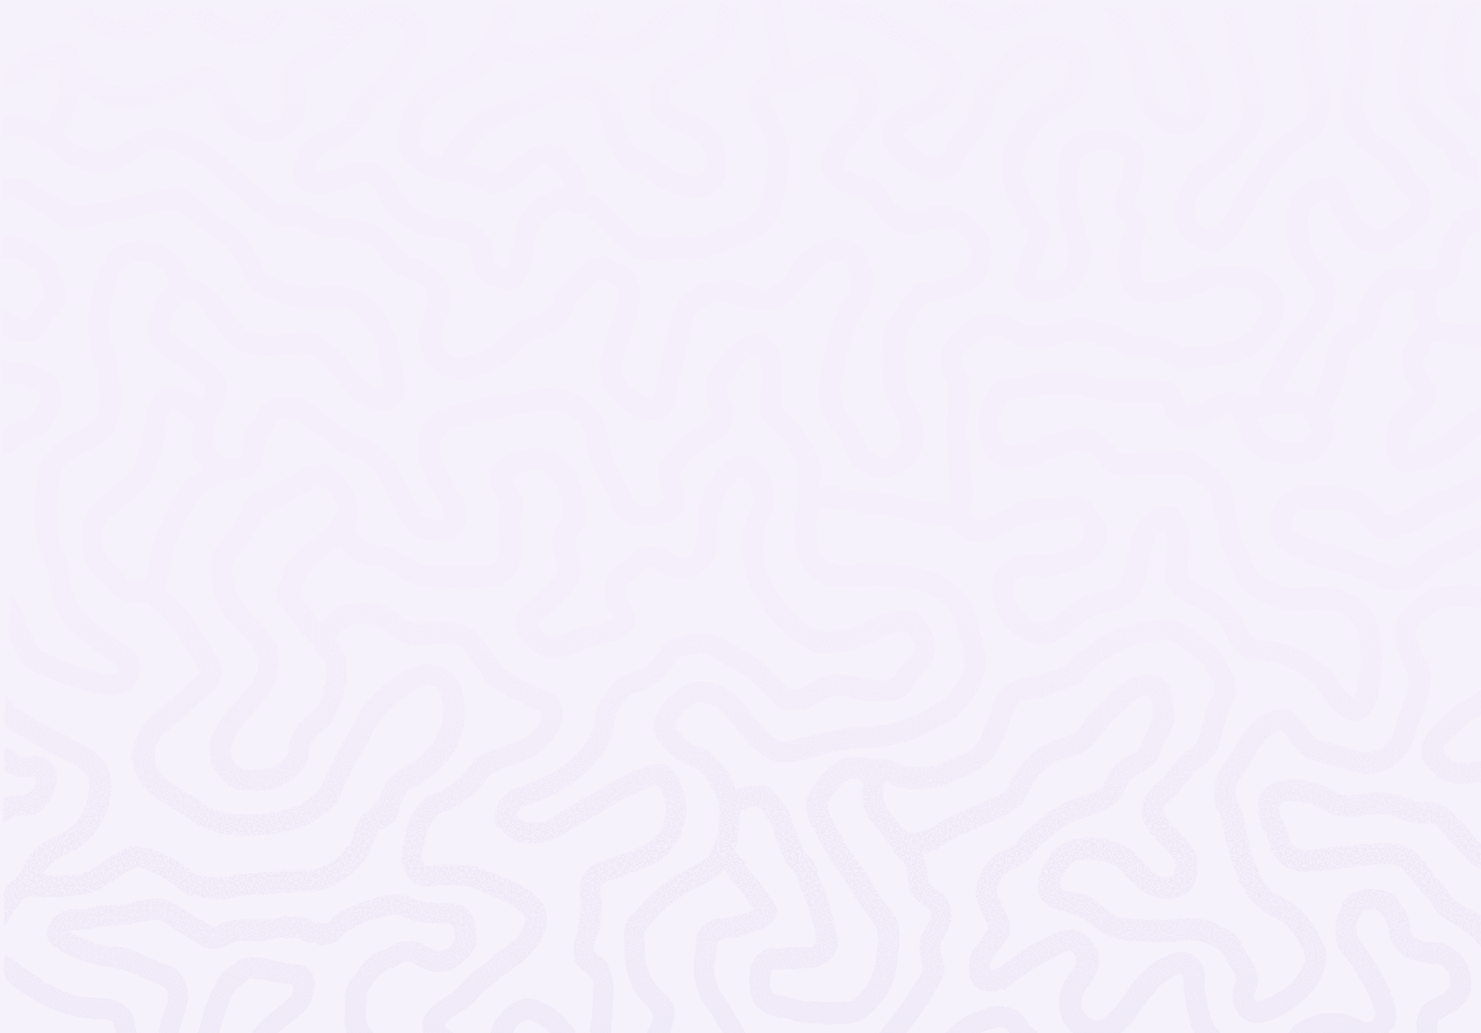
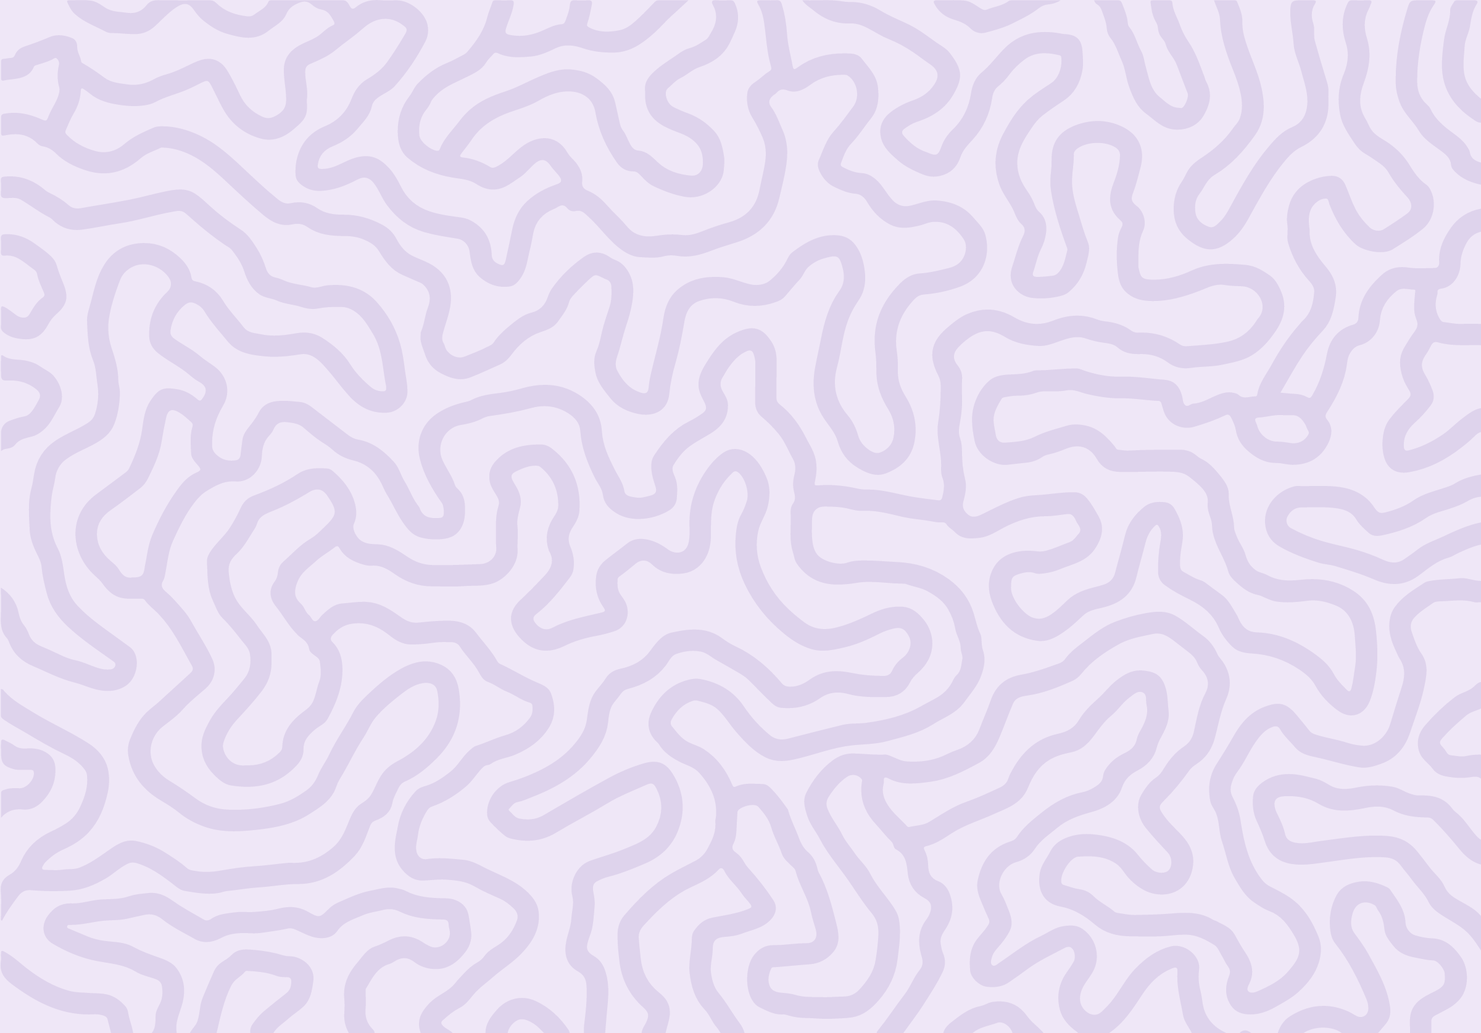
fix(mobile): reconcile canvasLight with the regenerated light-mode maze texture
Owner on-device: the first shipped light-mode maze texture
(background-light.png) read as too bright, with the maze pattern nearly
invisible against the canvas. Regenerated via apps/website's own
@resvg/resvg-js (handles background.svg's filter defs natively — no
ImageMagick workaround needed, see the recipe note in proposal.md): base fill
#efe7f7, maze recolored to #b39fd1 at fill-opacity .28, rendered at fitTo
width 2400 with background=#efe7f7 baked into the PNG so contentFit="cover"
edges can't show a seam.

canvasLight (packages/tokens/src/colors.ts) deepened to match the asset's own
base fill (#F6F2FB → #EFE7F7) — ScreenBackground paints canvasLight as the
solid color behind this texture, so the two need to agree; before this,
the flat canvas (visible for an instant before the texture decodes, and at
any cover-fit edge/gap) was visibly lighter than the texture laid over it.
_layout.tsx's light contentStyle and pick-player.tsx's bg-canvasLight both
read the same token, so both picked up the reconciled value automatically.

Flagged (not fixed) in proposal.md: recomputed contrast against the deepened
canvas shows mutedOnLight now sits at ~4.22:1 against canvasLight (was
4.60:1), just under the 4.5:1 AA threshold for normal text — the one on-screen
instance is the "N cards · N languages" caption on the Library landing.
Left as a flag rather than a fix here since mutedOnLight is used far more
broadly than this one caption and deserves the same "same contrast step as
[…]

diff --git a/packages/tokens/src/colors.ts b/packages/tokens/src/colors.ts
@@ -37,7 +37,10 @@ export const colors = {
   // Pick a Card's deck/faces) never read these — they stay dark in both themes. These
   // cover the Library canvas, the Play/Pick a Card chrome around the Card (issue
   // #173), and the Language/Game/Share/Theme sheet surfaces.
-  canvasLight: '#f6f2fb',
+  // Deepened again (issue #189 on-device: too bright, maze texture read as
+  // invisible against it) to match the regenerated maze texture's own base
+  // fill — see docs/design/163-light-mode/proposal.md's texture recipe note.
+  canvasLight: '#efe7f7',
   // Deepened variants for text/accents that only ever sat on a dark canvas or a
   // small icon before now — the flat tokens don't reliably clear WCAG AA once
   // they're legible-text-sized on the new light surfaces (see the proposal's

diff --git a/docs/design/163-light-mode/proposal.md b/docs/design/163-light-mode/proposal.md
@@ -63,12 +63,12 @@ Rather than picking new hex values by eye, each new light token was derived to r
 off _its_ canvas (`background`, `#0d051f`). That keeps the light theme's sense of depth
 perceptually equivalent to the dark theme's, instead of just guessing at "light-mode-y" colors.
 
-| Elevation role                                                  | Dark token                | Dark hex      | Contrast vs. dark canvas | Light hex                                                     | Contrast vs. light canvas | Shipped?                              |
-| --------------------------------------------------------------- | ------------------------- | ------------- | -----------------------: | ------------------------------------------------------------- | ------------------------: | :------------------------------------ |
-| Canvas (Library screen background)                              | `darkest`                 | `#08001a`     |                        — | `canvasLight` `#F6F2FB`                                       |                         — | **yes**                               |
-| Sheet surface (Language/Game/Share/Theme modals)                | n/a (was hardcoded white) | —             |                        — | dark: reuse `dark` `#262432` · light: reuse `white` `#FFFFFF` |             1.29:1 (dark) | **yes** — amended, see below          |
-| ~~Mid surface (revealed question card, PlayerBar, close chip)~~ | ~~`darker`~~              | ~~`#111516`~~ |               ~~1.08:1~~ | ~~`#EFEAF7`~~                                                 |                ~~1.07:1~~ | **no — card stays dark, amendment 2** |
-| ~~Raised surface (deck-peek layers, card back)~~                | ~~`dark`~~                | ~~`#262432`~~ |               ~~1.30:1~~ | ~~`#DED4EC`~~                                                 |                ~~1.29:1~~ | **no — card stays dark, amendment 2** |
+| Elevation role                                                  | Dark token                | Dark hex      | Contrast vs. dark canvas | Light hex                                                                                         | Contrast vs. light canvas | Shipped?                              |
+| --------------------------------------------------------------- | ------------------------- | ------------- | -----------------------: | ------------------------------------------------------------------------------------------------- | ------------------------: | :------------------------------------ |
+| Canvas (Library screen background)                              | `darkest`                 | `#08001a`     |                        — | `canvasLight` `#EFE7F7` (deepened from `#F6F2FB`, issue #189 — see the texture recipe note below) |                         — | **yes**                               |
+| Sheet surface (Language/Game/Share/Theme modals)                | n/a (was hardcoded white) | —             |                        — | dark: reuse `dark` `#262432` · light: reuse `white` `#FFFFFF`                                     |             1.29:1 (dark) | **yes** — amended, see below          |
+| ~~Mid surface (revealed question card, PlayerBar, close chip)~~ | ~~`darker`~~              | ~~`#111516`~~ |               ~~1.08:1~~ | ~~`#EFEAF7`~~                                                                                     |                ~~1.07:1~~ | **no — card stays dark, amendment 2** |
+| ~~Raised surface (deck-peek layers, card back)~~                | ~~`dark`~~                | ~~`#262432`~~ |               ~~1.30:1~~ | ~~`#DED4EC`~~                                                                                     |                ~~1.29:1~~ | **no — card stays dark, amendment 2** |
 
 `ScreenBackground`'s dark canvas is actually `colors.darkest` (`#08001a`), not `background` — the
 original doc's role table (matching `docs/DESIGN.md`'s naming) rounded that to `background`;
@@ -103,21 +103,21 @@ needed to work on white). Checked directly rather than assumed — see the amend
 
 ### Full token mapping
 
-| Role                                                 | Dark token                     |    Dark value | Light proposal                                          |           Light value | Note                                                                                        |
-| ---------------------------------------------------- | ------------------------------ | ------------: | ------------------------------------------------------- | --------------------: | ------------------------------------------------------------------------------------------- |
-| Library canvas                                       | `darkest`                      |     `#08001a` | `canvasLight` (new)                                     |             `#F6F2FB` | Library/landing screen only — Play and Pick a Card force dark, see amendment 2              |
-| Sheet surface                                        | n/a (was always white)         |             — | reuse `dark` (dark theme) / reuse `white` (light theme) | `#262432` / `#FFFFFF` | amended — see above                                                                         |
-| Primary text (sheets, Library)                       | `white`                        |     `#f5f5f5` | reuse `darker`                                          |             `#111516` | already proven as sheet body text                                                           |
-| Muted / secondary text                               | `gray-dark`                    |     `#9698af` | `mutedOnLight` (new)                                    |             `#6B6D82` | the un-deepened value only just fails AA on light — see [contrast finding](#contrast-check) |
-| Hairline rule / border                               | `gray-lighter`                 |     `#dcdee9` | reuse as-is                                             |             `#dcdee9` | already the sheets' border color                                                            |
-| Primary accent (buttons)                             | `yellow-400` / `primary.light` |     `#f9d75f` | unchanged                                               |             `#f9d75f` | button always carries its own dark text; theme-independent                                  |
-| Secondary accent (checkmark, selection) — dark theme | `primary-dark`                 |     `#c058d2` | `accentOnDark` (new)                                    |             `#D485E2` | new combination — violet text never sat on a dark sheet before                              |
-| Secondary accent — light theme                       | `primary-dark`                 |     `#c058d2` | `accentOnLight` (new)                                   |             `#9A3AAC` | any place violet is set as legible copy                                                     |
-| Error, text scale — dark theme                       | `red`                          |     `#ee1e23` | `errorOnDark` (new)                                     |             `#FF5B5F` | new combination — error copy never sat on a dark sheet before                               |
-| Error, text scale — light theme                      | `red`                          |     `#ee1e23` | `errorOnLight` (new)                                    |             `#C9151A` | error copy needs AA; the flat token doesn't clear it on white                               |
-| Selection tint                                       | `bg-yellow-300/40`             |             — | unchanged                                               |                     — | works on both the white and the dark `#262432` sheet fill                                   |
-| Brand gradient (wordmark, display text)              | `gradients.primary`            | yellow→violet | unchanged                                               |                     — | works on either canvas — see [wordmark](#wordmark--the-maze-texture) below                  |
-| ~~Card mid/raised surfaces~~                         | ~~`darker`/`dark`~~            |             — | ~~`#EFEAF7`/`#DED4EC`~~                                 |                     — | **not shipped** — card stays dark in both themes (amendment 2)                              |
+| Role                                                 | Dark token                     |    Dark value | Light proposal                                          |           Light value | Note                                                                                                                                                   |
+| ---------------------------------------------------- | ------------------------------ | ------------: | ------------------------------------------------------- | --------------------: | ------------------------------------------------------------------------------------------------------------------------------------------------------ |
+| Library canvas                                       | `darkest`                      |     `#08001a` | `canvasLight` (new)                                     |             `#EFE7F7` | Library/landing screen only — Play and Pick a Card force dark, see amendment 2; deepened from `#F6F2FB` per issue #189 (see texture recipe note below) |
+| Sheet surface                                        | n/a (was always white)         |             — | reuse `dark` (dark theme) / reuse `white` (light theme) | `#262432` / `#FFFFFF` | amended — see above                                                                                                                                    |
+| Primary text (sheets, Library)                       | `white`                        |     `#f5f5f5` | reuse `darker`                                          |             `#111516` | already proven as sheet body text                                                                                                                      |
+| Muted / secondary text                               | `gray-dark`                    |     `#9698af` | `mutedOnLight` (new)                                    |             `#6B6D82` | the un-deepened value only just fails AA on light — see [contrast finding](#contrast-check)                                                            |
+| Hairline rule / border                               | `gray-lighter`                 |     `#dcdee9` | reuse as-is                                             |             `#dcdee9` | already the sheets' border color                                                                                                                       |
+| Primary accent (buttons)                             | `yellow-400` / `primary.light` |     `#f9d75f` | unchanged                                               |             `#f9d75f` | button always carries its own dark text; theme-independent                                                                                             |
+| Secondary accent (checkmark, selection) — dark theme | `primary-dark`                 |     `#c058d2` | `accentOnDark` (new)                                    |             `#D485E2` | new combination — violet text never sat on a dark sheet before                                                                                         |
+| Secondary accent — light theme                       | `primary-dark`                 |     `#c058d2` | `accentOnLight` (new)                                   |             `#9A3AAC` | any place violet is set as legible copy                                                                                                                |
+| Error, text scale — dark theme                       | `red`                          |     `#ee1e23` | `errorOnDark` (new)                                     |             `#FF5B5F` | new combination — error copy never sat on a dark sheet before                                                                                          |
+| Error, text scale — light theme                      | `red`                          |     `#ee1e23` | `errorOnLight` (new)                                    |             `#C9151A` | error copy needs AA; the flat token doesn't clear it on white                                                                                          |
+| Selection tint                                       | `bg-yellow-300/40`             |             — | unchanged                                               |                     — | works on both the white and the dark `#262432` sheet fill                                                                                              |
+| Brand gradient (wordmark, display text)              | `gradients.primary`            | yellow→violet | unchanged                                               |                     — | works on either canvas — see [wordmark](#wordmark--the-maze-texture) below                                                                             |
+| ~~Card mid/raised surfaces~~                         | ~~`darker`/`dark`~~            |             — | ~~`#EFEAF7`/`#DED4EC`~~                                 |                     — | **not shipped** — card stays dark in both themes (amendment 2)                                                                                         |
 
 A neat discovery while deriving the deepened-yellow case: `colors.yellow[100]` (`#7e7552`)
 already existed in `packages/tokens/src/colors.ts`, unused anywhere in the app. It wasn't needed
@@ -145,19 +145,40 @@ unchanged. Every themed surface picks between an existing token and a new one vi
 - ~~**Card-back wordmark** change~~: not shipped. `pick-player.tsx`'s coded "WHO?CARDS" (`WHO`
   yellow-400, `?` primary-dark, `CARDS` white) is untouched — the card back stays dark in both
   themes (amendment 2), so `text-white` for `CARDS` is still correct.
-- **Maze texture** (new asset: `apps/mobile/assets/images/background-light.png`, used by
+- **Maze texture** (asset: `apps/mobile/assets/images/background-light.png`, used by
   `ScreenBackground` on the Library screen only): recolored from the same source path data as
-  the dark texture (`apps/website/public/background.svg`), gradient stops shifted from
-  `#08001A → #fff` to `#EDE6F6 → #C9B8E0` at `fill-opacity .16`. **Implementation note from
-  building the actual asset:** rasterizing this SVG with ImageMagick's SVG delegate produced
-  wrong output twice — first an accidental grayscale PNG (lost the tint entirely, fixed with
+  the dark texture (`apps/website/public/background.svg`).
+  **Regen recipe (current, issue #189 — replaces the ImageMagick approach below):** the owner's
+  first shipped light asset (gradient stops `#EDE6F6 → #C9B8E0` at `fill-opacity .16`, built via
+  the ImageMagick/Playwright pipeline described below) read as too bright on-device, with the
+  maze pattern nearly invisible against the canvas. Regenerated instead with
+  `apps/website`'s own `@resvg/resvg-js` (already a website dependency — see
+  `apps/website/src/server/print/render.ts` for its other usage), which handles
+  `background.svg`'s filter defs natively (no ImageMagick workaround needed): base fill
+  `#efe7f7`, maze stroke/fill recolored to `#b39fd1` at `fill-opacity .28`, rendered via
+  `resvg-js`'s `fitTo: {mode: 'width', value: 2400}` with `background: '#efe7f7'` baked directly
+  into the PNG (so `contentFit="cover"`'s edges/gaps can't show a seam against the canvas
+  underneath). **`canvasLight` (`packages/tokens/src/colors.ts`) was deepened to match this
+  asset's own base fill** (`#F6F2FB` → `#EFE7F7`) — `ScreenBackground` paints `canvasLight` as
+  the solid color _behind_ this texture (see its own doc comment), so the two need to agree:
+  before this change the flat canvas (visible for an instant before the texture image decodes,
+  and at any `contentFit="cover"` edge/gap) was visibly lighter than the texture laid over it.
+  `_layout.tsx`'s light `contentStyle` and `pick-player.tsx`'s `bg-canvasLight` both read the
+  same token, so both picked up the reconciled value automatically — no separate edit needed
+  there. Contrast re-checked against the deepened canvas: every `mutedOnLight`/`accentOnLight`/
+  `errorOnLight` pairing in the [contrast table](#contrast-check) only _gains_ margin against a
+  darker background, so nothing in that table needed re-deriving.
+  **Implementation note from building the original asset (superseded by the recipe above, kept
+  for context):** rasterizing this SVG with ImageMagick's SVG delegate produced wrong output
+  twice — first an accidental grayscale PNG (lost the tint entirely, fixed with
   `-type TrueColor -define png:color-type=2`), then solid black artifacts on some paths once
   opacity was pushed to 1 while iterating (ImageMagick's SVG delegate appears to mishandle the
   source SVG's inert `feDisplacementMap`/`feTurbulence` filter — `apps/website/public/background.svg`'s `disFilter`, `display="none"` but still present in the defs). The dark asset was presumably
-  rasterized some other way originally, since it doesn't hit this. Fix: render through the same
-  Chromium/Playwright pipeline already used for the mock screenshots (which handles the filter
-  fine) instead of ImageMagick's SVG rasterizer, then flatten and re-encode. See
-  `apps/mobile/assets/images/background-light.png`.
+  rasterized some other way originally, since it doesn't hit this. Fix at the time: render
+  through the same Chromium/Playwright pipeline already used for the mock screenshots (which
+  handles the filter fine) instead of ImageMagick's SVG rasterizer, then flatten and re-encode —
+  superseded by the `resvg-js` recipe above, which handles the filter directly and needs no
+  separate browser pipeline. See `apps/mobile/assets/images/background-light.png`.
 
 ## Mocks
 
@@ -176,7 +197,8 @@ Open [`mocks/index.html`](./mocks/index.html) for the interactive gallery. Stati
 The screen the issue calls "Library" is today's single-Deck landing (`app/index.tsx`) — per
 `docs/DESIGN.md`'s "Mobile v1 launch alignment", true Library browsing doesn't exist yet, so this
 mock is that same landing screen re-themed, not a new browse UI. This is the **only** screen
-whose canvas actually themes. Canvas `#F6F2FB` (light) / `#08001a` (dark, unchanged) + the
+whose canvas actually themes. Canvas `#EFE7F7` (light, deepened from `#F6F2FB` per issue #189) /
+`#08001a` (dark, unchanged) + the
 matching maze texture, wordmark unchanged in both, tagline/meta/chip text and borders swap via
 `dark:` variants. The yellow Play button is byte-for-byte the same component in both themes — it
 carries its own colors regardless of theme.
@@ -219,11 +241,28 @@ large text (≥ 24px, or ≥ 18.66px bold) and graphical/UI objects.
 
 ### Library canvas (light theme)
 
-| Pair                                                      |                                                                      Ratio | AA normal text |
-| --------------------------------------------------------- | -------------------------------------------------------------------------: | :------------: |
-| `darker` (#111516) text on canvas `canvasLight` `#F6F2FB` |                                                                  16.64 : 1 |      pass      |
-| Tagline `darker/80` on canvas                             | ~14+ : 1 (opacity reduces effective contrast slightly; comfortably passes) |      pass      |
-| `mutedOnLight` (#6B6D82) on canvas                        |                                                                   4.60 : 1 |      pass      |
+Recomputed against the deepened canvas (`#F6F2FB` → `#EFE7F7`, issue #189 — see the texture
+recipe note above). Darkening the canvas doesn't uniformly help every pairing the way the first
+pass of this token change assumed: it **increases** contrast against dark colors far from it on
+the lightness scale, but **decreases** contrast against colors already closer to it — exactly
+`mutedOnLight`'s situation, since it's a mid-tone gray, not a near-black.
+
+| Pair                                                      |                                                                      Ratio |              AA normal text              |
+| --------------------------------------------------------- | -------------------------------------------------------------------------: | :--------------------------------------: |
+| `darker` (#111516) text on canvas `canvasLight` `#EFE7F7` |                                                                  15.27 : 1 |                   pass                   |
+| Tagline `darker/80` on canvas                             | ~13+ : 1 (opacity reduces effective contrast slightly; comfortably passes) |                   pass                   |
+| `mutedOnLight` (#6B6D82) on canvas                        |                                                               **4.22 : 1** | **fails** (needs 4.5:1) — see flag below |
+
+**Flagged, not fixed here:** the "N cards · N languages" caption on the Library landing
+(`app/index.tsx`, `text-mutedOnLight ... text-sm` directly on the canvas via `ScreenBackground`)
+is the one real on-screen instance of this exact pairing, and it's normal-sized text (14px, under
+the 18.66px-bold/24px "large text" threshold), so it doesn't clear the large-text 3:1 exemption
+either — it's a genuine, if narrow (0.28 short), AA regression from deepening the canvas without
+also deepening `mutedOnLight`. Left as a flag rather than a fix in this pass: `mutedOnLight` is
+used far more broadly than this one caption (every sheet's secondary-value text, row descriptions,
+etc.), and picking its next value needs the same "same contrast step as its dark-theme equivalent"
+derivation the rest of this table used, not a hand-tuned nudge against one caller. Whoever
+resolves this flag should re-run that derivation against the new canvas value.
 
 ### Sheet surfaces (amended — both themes checked)
 
